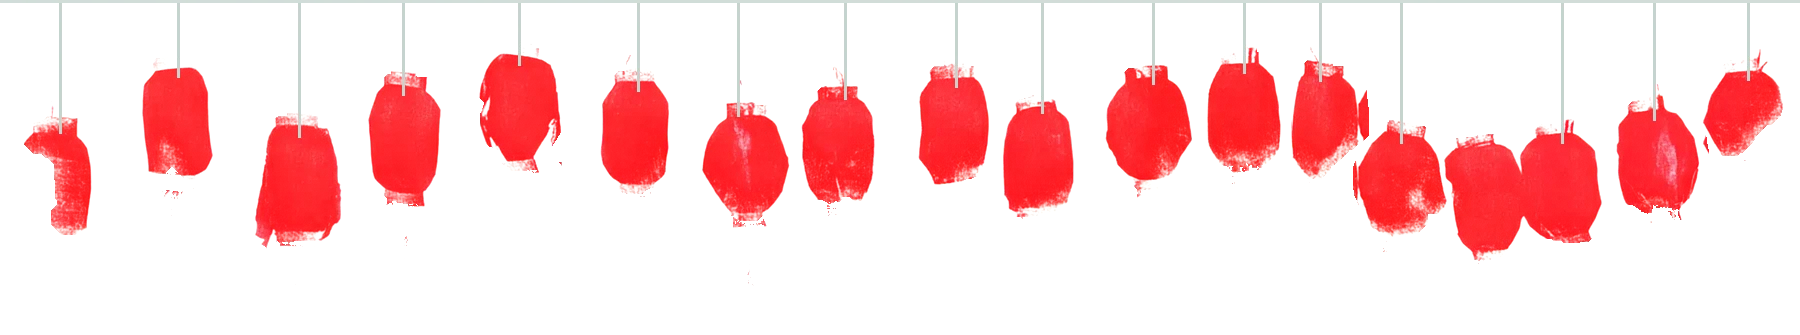
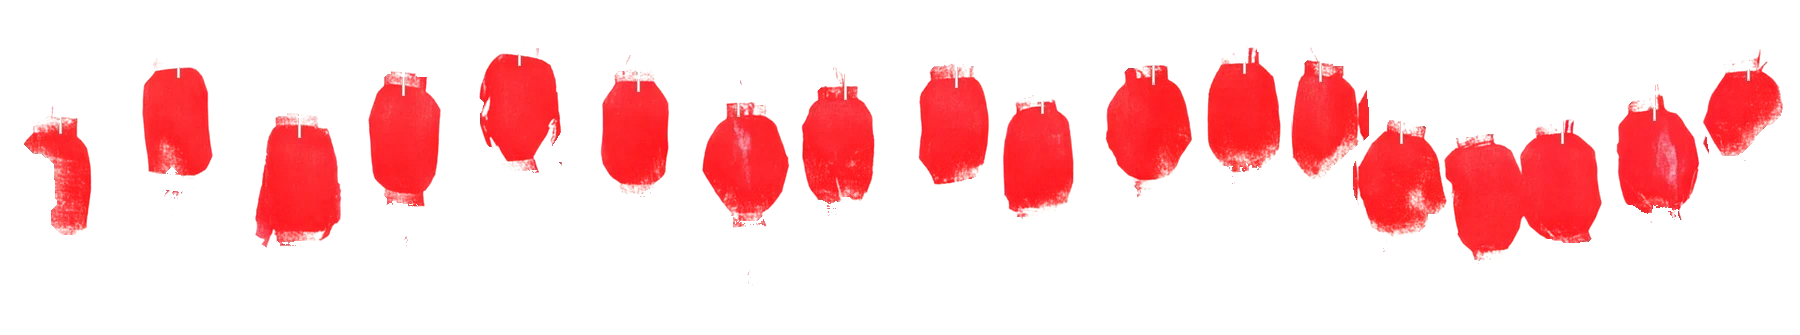
登录按钮去孔、总控计时重置、灯笼去线、勾魂令改版、鬼门开占位、Scavenger 不弹窗
Claude-Session: https://claude.ai/code/session_01WvX51nbkJSoqP7cjdirpLZ

Changed region(s): [[0.0, 0.0, 1.0, 0.0299]]

diff --git a/web/public/app.js b/web/public/app.js
@@ -28,7 +28,7 @@ function buzz(p){
   if(!IOS)return;const a=Array.isArray(p)?p:[p];let t=0;
   a.forEach((d,i)=>{if(i%2===0)setTimeout(iosTick,t);t+=d;});}
 function shakeEl(el,cls){if(!el)return;el.classList.remove(cls);void el.offsetWidth;el.classList.add(cls);}
-let ui={ddOpen:null,don:{},tab:null,room:'4S',gatePick:'',finalAsk:null,pick:'',res:{},settled:null,hookTeam:'',hookTarget:'',hookWhere:'',rd:{quest:'',title:''},pickOut:{},doneSel:{},revokeAsk:null,
+let ui={ddOpen:null,don:{},tab:null,room:'4S',gatePick:'',finalAsk:null,pick:'',res:{},settled:null,hookTeam:'',hookMode:'',hookAsk:null,hookTarget:'',hookWhere:'',rd:{quest:'',title:''},pickOut:{},doneSel:{},revokeAsk:null,
   coinTeam:'',coinAmt:'',buyer:'',mkTab:'buy',ncOpen:false,as:'ctrl',devOps:false,demoRows:null,devAck:new Set(),nc:{name:'',desc:'',price:'',stock:''},
   sub:{dealer:'info',npc:'task',market:'buy',ctrl:'status',player:'team'},
   pub:{kind:'鬼门开',reward:0,title:'',body:'',target:'all',team:'R',players:[],mins:10,to:'all',sqTeam:'',quest:'',gate:''},
@@ -249,9 +249,25 @@ function scavPanel(){
 }
 
 function hookLog(){
-  const out=[];
-  for(const l of S.log){const m=/^(\S+) 被(.)队(?:勾魂|通过「鬼门开」任务淘汰)/.exec(l.text);if(m)out.push({t:l.t,pid:m[1],by:(S.teams.find(t=>t.name===m[2]+'队')||{}).id});}
+  const out=[],byName=n=>(S.teams.find(t=>t.name===n+'队')||{}).id;
+  for(const l of S.log){let m;
+    if((m=/^(\S+) 被(.)队(?:勾魂|通过「鬼门开」任务淘汰)/.exec(l.text)))out.push({t:l.t,pid:m[1],by:byName(m[2]),kind:'淘汰'});
+    else if((m=/^(\S+) 因(?:勾魂令|鬼门开奖励)免费复活，回到(.)队/.exec(l.text)))out.push({t:l.t,pid:m[1],by:byName(m[2]),kind:'复活'});}
   return out;
+}
+// 勾魂令：取得勾魂令的队伍 = 左边「任务判定」里判定成功的队伍（选别的队要二次确认）；效果按本队人数建议（满员淘汰 / 缺人复活），也可强行改。
+function hookWon(tid){return S.notices.some(n=>n.kind==='任务'&&n.sub!=='side'&&Object.keys(n.done).some(c=>teamOf(c)===tid));}
+function hookSug(tid){return tid&&alive(tid).length<size(tid)?'revive':'kill';}
+function hookDlg(){
+  const k=ui.hookAsk;if(!k)return '';
+  const t=team(k.kind==='team'?k.v:ui.hookTeam);if(!t)return '';
+  let msg;
+  if(k.kind==='team')msg=t.name+'还没有在左边「任务判定」里判定成功，却要使用勾魂令。';
+  else{const n=alive(t.id).length,z=size(t.id),sug=hookSug(t.id);
+    msg=t.name+(n<z?'未满员（存活 '+n+'/'+z+'），建议「复活」一名队员':'已满员（存活 '+n+'/'+z+'），建议「淘汰」别队一名队员')+'，你要强行改成「'+(k.v==='kill'?'淘汰':'复活')+'」。';}
+  return '<div class="sheet"><div class="sheet-bg" data-a="hookno"></div><div class="sheet-card pn" role="dialog" aria-modal="true" aria-labelledby="hdt"><h3 id="hdt">'+(k.kind==='team'?'这支队伍没有判定成功':'与建议的效果不同')+'</h3>'
+    +'<div class="lot hot">'+esc(msg)+'</div><span class="small">你仍然可以继续。</span>'
+    +'<div class="btns two2"><button class="btn-main" data-a="hookok">仍然选择</button><button class="btn-line" data-a="hookno">取消</button></div></div></div>';
 }
 function viewNpc(){
   const tasks=S.notices.filter(n=>n.kind==='任务'&&n.sub!=='side').slice(0,6);
@@ -274,27 +290,35 @@ function viewNpc(){
     '<div class="li"><div class="grow"><span class="t">'+fmt(d.t)+(n.due&&d.t>n.due?' 超时':'')+'</span><span class="x">'+lab(cid)+' 完成「'+esc(n.title)+'」'+(d.pts?' <span class="mono">+'+d.pts+'</span>':'')+'</span></div>'
     +'<button class="btn-line" data-a="undone" data-n="'+n.id+'" data-t="'+cid+'">撤销</button></div>').join(''):'<div class="li small">暂无记录</div>')+'</div>';
   const task=gatePanel()+(cards||'<div class="pn"><span class="muted">还没有发布任务。总控在生死簿「发布」里发布。</span></div>')+records;
-  // 勾魂令: two dropdowns (who holds the token, who is named) and one button
+  // 勾魂令：队伍 → 效果（建议 + 可强行改）→ 队员
+  const ht=ui.hookTeam&&team(ui.hookTeam),sug=hookSug(ui.hookTeam),mode=ui.hookMode||sug,kill=mode==='kill';
   if(ui.hookTarget){const p=S.players.find(x=>x.id===ui.hookTarget);
-    if(!p||p.team===ui.hookTeam||p.st!=='alive'||protectedLeft(p)>0)ui.hookTarget='';}
+    if(!p||(kill?(p.team===ui.hookTeam||p.st!=='alive'||protectedLeft(p)>0):(p.team!==ui.hookTeam||p.st==='alive')))ui.hookTarget='';}
   const tgt=ui.hookTarget&&S.players.find(x=>x.id===ui.hookTarget);
-  const opts=S.teams.filter(t=>t.id!==ui.hookTeam).flatMap(t=>{
+  const won=S.teams.filter(t=>hookWon(t.id)),notWon=S.teams.filter(t=>!hookWon(t.id));
+  const tOpts=[...(won.length?[{group:'判定成功'},...won.map(t=>({v:t.id,label:t.name,c:TC[t.id][0]}))]:[]),
+    {group:'未判定成功（强行选择会提示）'},...notWon.map(t=>({v:t.id,label:t.name,c:TC[t.id][0]}))];
+  const stName={out:'原地待接',picked:'已被接到',market:'在鬼市'};
+  const opts=kill?S.teams.filter(t=>t.id!==ui.hookTeam).flatMap(t=>{
     return [{group:t.name},...S.players.filter(p=>p.team===t.id).map(p=>{const l=protectedLeft(p),gone=p.st!=='alive';
-      return {v:p.id,label:p.id,c:TC[t.id][0],off:gone||l>0,note:gone?'已淘汰':l>0?'保护 '+Math.ceil(l/60)+' 分':''};})];});
+      return {v:p.id,label:p.id,c:TC[t.id][0],off:gone||l>0,note:gone?'已淘汰':l>0?'保护 '+Math.ceil(l/60)+' 分':''};})];})
+    :S.players.filter(p=>p.team===ui.hookTeam&&p.st!=='alive').map(p=>({v:p.id,label:p.id,c:TC[ui.hookTeam][0],note:stName[p.st]||''}));
   const ready=ui.hookTeam&&tgt;
-  const counts={};const hl=hookLog();hl.forEach(h=>{if(h.by)counts[h.by]=(counts[h.by]||0)+1;});
-  const hook='<div class="pn hook"><div class="two">'
-    +'<div class="fld"><span>取得勾魂令的队伍</span>'+dd('hookTeam',ui.hookTeam&&team(ui.hookTeam).name,'选择队伍',ui.hookTeam&&TC[ui.hookTeam][0],S.teams.map(t=>({v:t.id,label:t.name,c:TC[t.id][0]})))+'</div>'
-    +'<div class="fld"><span>被点名的队员</span>'+dd('hookTarget',tgt&&tgt.id,'选择别队队员',tgt&&TC[tgt.team][0],opts)+'</div></div>'
-    +'<label class="fld"><span>位置（在房间内可不填）</span><input class="in" id="hw" data-m="hookWhere" value="'+esc(ui.hookWhere)+'" placeholder="例如：二楼走廊"></label>'
-    +'<button class="btn-main red" data-a="hook"'+(ready?'':' disabled')+' style="min-height:56px;display:flex;align-items:center;justify-content:center;gap:12px;font-size:18px">'
+  const modeUi=ht?'<div class="fld"><span>效果</span><div class="seg2">'+[['kill','淘汰别队一名队员'],['revive','复活本队一名队员']].map(([k,l])=>'<button class="sbtn'+(mode===k?' on':'')+'" data-a="hookmode" data-v="'+k+'" aria-pressed="'+(mode===k)+'">'+l+(sug===k?'（建议）':'')+'</button>').join('')+'</div>'
+      +'<span class="small">'+esc(ht.name)+'存活 '+alive(ht.id).length+'/'+size(ht.id)+(sug==='kill'?'，已满员 → 建议淘汰':'，未满员 → 建议复活')+(ui.hookMode&&ui.hookMode!==sug?'　<b style="color:var(--red)">（已强行改成'+(ui.hookMode==='kill'?'淘汰':'复活')+'）</b>':'')+'</span></div>'
+    :'<span class="small">选好队伍后，会按本队存活人数建议效果（满员淘汰，未满员复活）。</span>';
+  const hl=hookLog();
+  const hook='<div class="pn hook"><div class="fld"><span>取得勾魂令的队伍</span>'+dd('hookTeam',ht&&ht.name,'选择队伍',ht&&TC[ui.hookTeam][0],tOpts)+'</div>'
+    +modeUi
+    +'<div class="fld"><span>'+(kill?'被点名的队员':'要复活的队友')+'</span>'+dd('hookTarget',tgt&&tgt.id,kill?'选择别队队员':'选择本队未存活的队友',tgt&&TC[tgt.team][0],opts)+'</div>'
+    +(kill?'<label class="fld"><span>位置（在房间内可不填）</span><input class="in" id="hw" data-m="hookWhere" value="'+esc(ui.hookWhere)+'" placeholder="例如：二楼走廊"></label>':'')
+    +'<button class="btn-main'+(kill?' red':'')+'" data-a="hook"'+(ready?'':' disabled')+' style="min-height:56px;display:flex;align-items:center;justify-content:center;gap:12px;font-size:18px">'
     +'<span style="width:34px;height:34px;border:2px solid currentColor;border-radius:6px;display:grid;place-items:center;font-family:var(--brush);font-size:24px;line-height:1;transform:rotate(-8deg);font-weight:400">勾</span>'
-    +(ready?team(ui.hookTeam).name+' 勾魂 '+tgt.id:'先选队伍和队员')+'</button></div>'
-    +'<div class="pn"><div class="shrow"><h3>已勾魂次数</h3><span class="small">本局共 <span class="mono" style="font-weight:800;font-size:22px;color:var(--ink)">'+S.gate+'</span> 次</span></div>'
-    +'<div class="hgrid">'+S.teams.map(t=>'<div class="hc">'+tsq(t.id,26)+'<span>'+t.name+'</span><b>'+(counts[t.id]||0)+'</b></div>').join('')+'</div>'
-    +hl.slice(0,3).map(h=>'<div class="hrow"><span class="minis">勾</span><span class="t">'+fmt(h.t)+'</span><span>'+(h.by?team(h.by).name+' 勾魂 ':'勾魂 ')+h.pid+'</span></div>').join('')+'</div>';
+    +(ready?ht.name+(kill?' 勾魂 ':' 复活 ')+tgt.id:'先选队伍和队员')+'</button></div>'
+    +'<div class="pn"><div class="shrow"><h3>勾魂记录</h3><span class="small">'+(hl.length?'共 '+hl.length+' 条':'暂无')+'</span></div>'
+    +hl.slice(0,10).map(h=>'<div class="hrow"><span class="minis">勾</span><span class="t">'+fmt(h.t)+'</span><span class="typ">'+h.kind+'</span><span>'+(h.by?team(h.by).name+' ':'')+(h.kind==='复活'?'复活 ':'勾魂 ')+h.pid+'</span></div>').join('')+'</div>';
   return '<div class="page tabbed"><div class="cols3">'+sec('npc','task','<h2 class="sh">任务判定</h2>'+task)+sec('npc','scav','<h2 class="sh">Scavenger Hunt 兑换</h2>'+scavPanel())+sec('npc','hook','<h2 class="sh">勾魂令</h2>'+hook)+'</div>'
-    +sub('npc',[['task','任务判定'],['scav','Scavenger'],['hook','勾魂令']])+'</div>';
+    +sub('npc',[['task','任务判定'],['scav','Scavenger'],['hook','勾魂令']])+hookDlg()+'</div>';
 }
 
 // ---------- 鬼市 ----------
@@ -478,7 +502,7 @@ function pubPanel(){
     +'<div class="fgrid"><label class="fld"><span>限时（分钟）</span><input class="in mono" id="pm" data-m="pub.mins" value="'+esc(f.mins)+'" inputmode="numeric"></label>'
     +(K==='custom'?'<label class="fld"><span>完成奖励（冥币，可为 0）</span><input class="in mono" id="prw" data-m="pub.reward" value="'+esc(f.reward)+'" inputmode="numeric"></label>':'')
     +'</div>'
-    +((side&&f.quest!=='custom')||(gate&&f.gate!=='custom')?'':'<label class="fld"><span>标题</span><input class="in" id="pti" data-m="pub.title" value="'+esc(f.title)+'" placeholder="例如：鬼门开：还原鬼片海报"></label>'
+    +((side&&f.quest!=='custom')||(gate&&f.gate!=='custom')?'':'<label class="fld"><span>标题</span><input class="in" id="pti" data-m="pub.title" value="'+esc(f.title)+'" placeholder="例如：鬼门开 占位"></label>'
     +'<label class="fld"><span>内容</span><textarea class="in" id="pb" data-m="pub.body" rows="3" placeholder="玩家手机上看到的说明：任务要求、集合地点…">'+esc(f.body)+'</textarea></label>')
     +'<button class="btn-main" data-a="publish">发布'+(K==='custom'?'自定义任务':gate?'鬼门开':'')+'到'+esc(toName)+(f.target==='staff'?'':f.target==='everyone'?'的手机':'玩家手机')+'</button></div>';
   const list=S.notices.filter(n=>n.kind!=='通知'&&n.sub!=='side').slice(0,10).map(n=>{
@@ -504,9 +528,11 @@ function adminPanel(){
       +(A.ask==='snap:'+s.key?'<span class="btns"><button class="btn-line fillred" data-a="adm-restore" data-v="'+s.key+'">确认恢复</button><button class="btn-line" data-a="adm-cancel">取消</button></span>'
         :'<button class="btn-line" data-a="adm-ask" data-v="snap:'+s.key+'">恢复到这里</button>')+'</div>').join('')+'</div>':'<span class="small">还没有备份。每 10 次操作自动备份一次。</span>'):'';
   const left='<div class="stack"><div class="pn"><span class="lbl" style="font-size:13px">游戏计时</span><div class="timer"><span class="big'+(run?'':' paused')+'" id="tclk">'+fmt(S.t)+'</span>'
-    +'<button class="btn-line '+(run?'':'fill')+'" data-a="clockctl" style="min-height:52px;padding:0 24px;font-size:17px;font-weight:900">'+(run?'暂停':'开始')+'</button></div>'
+    +'<button class="btn-line '+(run?'':'fill')+'" data-a="clockctl" style="min-height:52px;padding:0 24px;font-size:17px;font-weight:900">'+(run?'暂停':'开始')+'</button>'
+    +(A.ask==='clockreset'?'<button class="btn-line fillred" data-a="clockreset" style="min-height:52px;padding:0 18px;font-size:16px;font-weight:900">确认重置为 0:00</button><button class="btn-line" data-a="adm-cancel" style="min-height:52px">取消</button>'
+      :'<button class="btn-line" data-a="adm-ask" data-v="clockreset" style="min-height:52px;padding:0 18px;font-size:16px;font-weight:900">重置</button>')+'</div>'
     +'<span class="small" style="font-weight:700;color:'+(run?'var(--accent)':'var(--sub)')+'">'+(run?'● 计时中':'❚❚ 已暂停')+'</span></div>'
-    +'<div class="pn"><div class="shrow"><h3>总时长</h3><span class="small">大屏显示剩余时间；倒数到 0 不会自动做任何事</span></div><span class="small">当前 <b class="mono" style="color:var(--ink)">'+Math.round((S.dur||7200)/60)+'</b> 分钟</span>'
+    +'<div class="pn"><div class="shrow"><h3>总时长</h3></div><span class="small">当前 <b class="mono" style="color:var(--ink)">'+Math.round((S.dur||7200)/60)+'</b> 分钟</span>'
     +'<div class="btns"><input class="in mono" id="durm" data-m="durMin" value="'+esc(A.dur)+'" inputmode="numeric" placeholder="分钟，如 120" style="max-width:150px"><button class="btn-line acc" data-a="setdur">设置</button></div></div>'
     +'<div class="pn"><h3>开局</h3><span class="small">8 队随机分到 8 个房间（直接进入游戏中）。只有还没有队伍进过房间时才能用。</span><div class="btns"><button class="btn-line acc" data-a="assign">开局随机分房</button></div></div>'
     +'<div class="pn"><div class="shrow"><h3>PIN</h3><span class="small">按数量补齐工作人员 PIN</span></div>'
@@ -586,7 +612,7 @@ function viewPlayer(){
     +'<div class="skrow"><span class="cap">本队技能卡</span>'+(t.skills.length?'<div class="skills">'+t.skills.map(k=>'<button class="sk'+(ui.skillOpen===k.sid?' on':'')+'" data-a="skill" data-v="'+k.sid+'" aria-expanded="'+(ui.skillOpen===k.sid)+'">'+esc(k.name)+'</button>').join('')+'</div>':'<span class="muted small">暂无。鬼市里的人可用个人冥币购买。</span>')+'</div>'
     +((sk=>sk?'<div class="skd"><b>'+esc(sk.name)+'</b>'+(sk.desc?'<span class="d">'+esc(sk.desc)+'</span>':'')+'<span class="small">'+esc(sk.by)+' 于 '+fmt(sk.t)+' 在鬼市买入</span><span class="small">使用时找工作人员出示这一页。</span></div>':'')(t.skills.find(k=>k.sid===ui.skillOpen)));
   // 通知与任务
-  const mine=S.notices.filter(n=>matches(n,me)),unread=mine.filter(n=>!n.acks[me.id]).length;
+  const mine=S.notices.filter(n=>n.sub!=='side'&&matches(n,me)),unread=mine.filter(n=>!n.acks[me.id]).length;
   const nmeta=n=>{const key=indiv(n)?me.id:me.team,d=n.done[key],w=Object.keys(n.done)[0],lost=n.kind==='任务'&&!d&&isFirst(n)&&!!w;return{d,w,lost,live:n.kind==='任务'&&!d&&!lost};};
   const noteHtml=n=>{const acked=!!n.acks[me.id],[kl,kc]=kindOf(n),{d,w,lost}=nmeta(n);
     let ns='',nc='';
@@ -656,7 +682,7 @@ function modalHtml(){
       +'<button data-a="sack" data-n="'+n.id+'" data-modal="1">知道了</button></div></div>';}
   if(!ME||ME.role!=='player'||!S)return '';
   const me=S.players.find(p=>p.id===ME.pid);
-  const n=S.notices.find(x=>matches(x,me)&&!x.acks[me.id]&&!(DEVME&&ui.devAck.has(x.id+':'+me.id)));if(!n)return '';
+  const n=S.notices.find(x=>x.sub!=='side'&&matches(x,me)&&!x.acks[me.id]&&!(DEVME&&ui.devAck.has(x.id+':'+me.id)));if(!n)return '';
   const [kl,kc]=kindOf(n),r=n.due?n.due-S.t:0;
   return '<div class="ovl" data-k="'+(n.tone==='out'?'out':'')+'"><div class="dlg" data-n="'+n.id+'" data-k="'+(n.tone==='out'?'out':'')+'" role="dialog" aria-modal="true" aria-labelledby="dt"><div class="new"><i></i>新通知</div>'
     +'<div class="bd"><span class="k '+(kc==='alert'?'alert':'')+'">'+kl+'</span>'+(modeOf(n)?'<span>'+modeOf(n)+'</span>':'')+'</div>'
@@ -877,6 +903,7 @@ function localAdmin(a){
       if(a.op==='start'&&!CLOCK.running){CLOCK={running:true,base:CLOCK.base,at:Date.now()};FULL.t=CLOCK.base;R.log('计时开始');}
       else if(a.op==='pause'&&CLOCK.running){const n=nowT();CLOCK={running:false,base:n,at:Date.now()};FULL.t=n;R.log('计时暂停');}
       else if(a.op==='set'){CLOCK={running:CLOCK.running,base:Math.max(0,Math.round(+a.sec)||0),at:Date.now()};}
+      else if(a.op==='reset'){CLOCK={running:false,base:0,at:Date.now()};FULL.t=0;R.log('计时重置为 0:00');}
       else return no('计时状态没有变化');
       return ok(CLOCK.running?'计时进行中':'计时已暂停');
     case 'admin.reset':lSnap('重置前');FULL=R.newGame(!!a.demo);CLOCK={running:false,base:a.demo?FULL.t:0,at:Date.now()};return ok(a.demo?'已载入演示数据（计时暂停）':'已重置为空白游戏（计时暂停）');
@@ -925,7 +952,8 @@ document.addEventListener('click',e=>{
   if(a==='tab'){ui.tab=v;say(null);}
   else if(a==='sub'){ui.sub[b.dataset.p]=v;scrollTo({top:0});$('#view').scrollTop=0;}
   else if(a==='dd'){ui.ddOpen=ui.ddOpen===v?null:v;}
-  else if(a==='pick'){ui.ddOpen=null;const k=b.dataset.k,next=b.dataset.t&&getp(k)===v?'':v;setp(k,next);
+  else if(a==='pick'){ui.ddOpen=null;const k=b.dataset.k,next=b.dataset.t&&getp(k)===v?'':v;if(k==='hookTeam'&&next&&next!==ui.hookTeam&&!hookWon(next))ui.hookAsk={kind:'team',v:next};
+    else{setp(k,next);if(k==='hookTeam'){ui.hookMode='';ui.hookTarget='';}}
     if(k==='pub.quest'){const q=QUESTS.find(x=>x.id===next);if(q)ui.pub.reward=q.reward;}
     if(k==='pub.to'){const t=next||'all';if(t.startsWith('team:')){ui.pub.target='team';ui.pub.team=t.slice(5);}else ui.pub.target=t;}}
   else if(a==='mktab'){ui.mkTab=v;}
@@ -943,6 +971,7 @@ document.addEventListener('click',e=>{
   else if(a==='demo-save'){const r=ui.demoRows[+b.dataset.i];send({type:'dev.setdemo',pin:r.pin,old:r.old,mode:r.mode,write:r.write},m=>{DEVME.demoCfg=m.data;SESSION.me=DEVME;store.set(SESSION);ui.demoRows=null;});}
   else if(a==='demo-del'){const i=+b.dataset.i,r=ui.demoRows[i];if(!r.old)ui.demoRows.splice(i,1);else send({type:'dev.deldemo',pin:r.old},m=>{DEVME.demoCfg=m.data;SESSION.me=DEVME;store.set(SESSION);ui.demoRows=null;});}
   else if(a==='devops'){if(DEVME.demo)return;ui.devOps=!ui.devOps;say({ok:true,msg:ui.devOps?'开发者模式：可操作（以当前视角的身份）':'开发者模式：只读'});}
+  else if(a==='clockreset'){A.ask=null;send({type:'admin.clock',op:'reset'});}
   else if(a==='clockctl'){send({type:'admin.clock',op:CLOCK&&CLOCK.running?'pause':'start'});}
   else if(a==='room'){ui.room=v;ui.pick='';ui.res={};ui.pickOut={};ui.settled=null;}
   else if(a==='res'){ui.res[b.dataset.t]=ui.res[b.dataset.t]===v?undefined:v;delete ui.pickOut[b.dataset.t];}
@@ -955,7 +984,10 @@ document.addEventListener('click',e=>{
   else if(a==='rsvclose'){ui.rsvInfo=null;}
   else if(a==='cancelrsv'){send({type:'cancelrsv'});}
   else if(a==='finish'){const rid=ui.room;send({type:'finish',rid,results:ui.res,picks:ui.pickOut},m=>{ui.res={};ui.pickOut={};ui.settled={rid,msg:m.msg};});}
-  else if(a==='hook'){send({type:'hook',actor:ui.hookTeam,pid:ui.hookTarget,where:ui.hookWhere},()=>{ui.hookTarget='';ui.hookWhere='';});}
+  else if(a==='hook'){send({type:'hook',actor:ui.hookTeam,pid:ui.hookTarget,where:ui.hookWhere,mode:ui.hookMode||hookSug(ui.hookTeam)},()=>{ui.hookTarget='';ui.hookWhere='';});}
+  else if(a==='hookmode'){const cur=ui.hookMode||hookSug(ui.hookTeam);if(v!==cur){if(v===hookSug(ui.hookTeam)){ui.hookMode='';ui.hookTarget='';}else ui.hookAsk={kind:'mode',v};}}
+  else if(a==='hookok'){const k=ui.hookAsk;ui.hookAsk=null;if(k){if(k.kind==='team'){ui.hookTeam=k.v;ui.hookMode='';ui.hookTarget='';}else{ui.hookMode=k.v;ui.hookTarget='';}}}
+  else if(a==='hookno'){ui.hookAsk=null;}
   else if(a==='publish'){const sq=ui.pub.kind==='sidequest';send({type:'publish',f:{...ui.pub,team:sq?ui.pub.sqTeam:ui.pub.team,mins:+ui.pub.mins||0,reward:+ui.pub.reward||0}},()=>{ui.pub.title='';ui.pub.body='';if(sq){ui.pub.quest='';ui.pub.sqTeam='';}ui.pub.gate='';});}
   else if(a==='scavredeem'){const r=ui.rd;send({type:'scavredeem',tid:b.dataset.t,qid:r.quest,title:r.title});}
   else if(a==='checkin'){send({type:'checkin',pid:b.dataset.p,party:checkinParty()});}

diff --git a/web/public/style.css b/web/public/style.css
@@ -1250,10 +1250,7 @@ body .lg::before,body .lg::after{content:none}
 .lg .okv{border-radius:var(--r-m)}
 .boxes .bx{border-color:#000;border-radius:var(--r-s);box-shadow:inset 0 0 0 calc(var(--stroke) - 1px) #000,inset 3px 3px 0 calc(var(--stroke) - 1px) rgba(0,0,0,.6)}
 .boxes:focus-within .bx.act{border-color:#5fe0b4;box-shadow:inset 0 0 0 calc(var(--stroke) - 1px) #5fe0b4,0 0 14px rgba(95,224,180,.35)}
-.lg .go{position:relative;border-radius:var(--r-m);box-shadow:inset 0 0 0 var(--stroke) #000,var(--sh),0 0 22px rgba(95,224,180,.25);transition:transform 70ms ease-out,box-shadow 70ms ease-out;
-  background-image:radial-gradient(circle 8px at 18px 50%,transparent 5.5px,#000 6px,#000 7.5px,transparent 8px);background-origin:border-box;background-repeat:no-repeat;
-  -webkit-mask:radial-gradient(circle 6px at 42px 50%,transparent 5.5px,#000 6px) -24px -24px/calc(100% + 48px) calc(100% + 48px) no-repeat border-box;
-  mask:radial-gradient(circle 6px at 42px 50%,transparent 5.5px,#000 6px) -24px -24px/calc(100% + 48px) calc(100% + 48px) no-repeat border-box;-webkit-mask-clip:no-clip;mask-clip:no-clip}
+.lg .go{position:relative;border-radius:var(--r-m);box-shadow:inset 0 0 0 var(--stroke) #000,var(--sh),0 0 22px rgba(95,224,180,.25);transition:transform 70ms ease-out,box-shadow 70ms ease-out}
 .lg .go:active:not(:disabled){transform:translate(var(--press),var(--press));box-shadow:inset 0 0 0 var(--stroke) #000}
 .lg .go:disabled{box-shadow:none;outline:var(--stroke) dashed #2e474e;outline-offset:calc(-1 * var(--stroke))}
 /* 深色大屏：去掉舞台上的噪点纸纹层 */

diff --git a/worker/src/index.js b/worker/src/index.js
@@ -202,6 +202,7 @@ export class Game extends DurableObject {
         if (a.op === 'start' && !c.running) { c.running = true; c.at = Date.now(); this.S.t = c.base; R.use(this.S); R.log('计时开始'); }
         else if (a.op === 'pause' && c.running) { c.base = this.now(); c.running = false; c.at = Date.now(); this.S.t = c.base; R.use(this.S); R.log('计时暂停'); }
         else if (a.op === 'set') { c.base = Math.max(0, Math.round(+a.sec) || 0); c.at = Date.now(); }
+        else if (a.op === 'reset') { c.base = 0; c.running = false; c.at = Date.now(); this.S.t = 0; R.use(this.S); R.log('计时重置为 0:00'); }
         else return R.no('计时状态没有变化');
         return ok(c.running ? '计时进行中' : '计时已暂停');
       }

diff --git a/CLAUDE.md b/CLAUDE.md
@@ -245,3 +245,13 @@ npm run dev:pages                             # 正式部署的路径（Pages+Wo
 
 ## 7.13 发布公告新增对象（2026-10-05）
 - 公告的「发给谁」多了「工作人员」（`staff`）和「所有人（玩家 + 工作人员）」（`everyone`），只有 kind=公告 可选（任务/鬼门开不行）。工作人员（含总控、大屏）收到全屏通知，已读只记在本机 sessionStorage（`staffAcked`），发布列表不统计工作人员已读数。`R.staffSees(n)`。
+
+## 7.14 本轮调整（2026-10-05 晚）
+
+- **登录页**进入按钮去掉左侧镂空钉孔（只改了 `style.css` 里 `.lg .go`，其余设计稿内容不动；`.btn-main` 的钉孔仍在）。
+- **总控工具**：「总时长」旁那句提示删掉；游戏计时加「重置」（先点重置 → 再点「确认重置为 0:00」；服务器 `admin.clock` 新增 `op:'reset'`：回到 0:00 并暂停，写日志；本地演示模式 `localAdmin` 同步支持）。
+- **鬼市灯笼**（`lantern-dark/light.webp`）：吊线和顶部横线去掉，灯笼位置不变（并清掉了残留线头）。
+- **勾魂令**（判官页，`hook`）：①取得勾魂令的队伍下拉分「判定成功」（左边任务判定里完成过非 Scavenger 任务的队伍，`hookWon`）和「未判定成功」两组，选后者会弹「这支队伍没有判定成功」，可「仍然选择」；②新增**效果**：淘汰别队一名队员 / 复活本队一名未存活队员（`mode:'kill'|'revive'`，复活走 `freeRevive`，与鬼门开奖励共用，复活后进保护期），按本队存活人数自动建议（满员 → 淘汰，缺人 → 复活），改成非建议效果时弹确认并显示「已强行改成…」；③**勾魂次数去掉**（`S.gate` 删除，不再显示计数）；④保留「勾魂记录」，每条带类别（淘汰 / 复活）。
+- **鬼门开**：演示数据和题库 `GATES` 都是占位文字（「鬼门开 占位」「（占位文字，正式内容待定）」），具体玩法待定。
+- **Scavenger Hunt**：玩家端不再弹全屏通知、「当前任务与通知」列表也不显示 sidequest 通知（`n.sub!=='side'` 过滤），只保留任务页顶上那条「Scavenger 已兑换/上限 + 可兑换时间」计数行；判官 / 总控的兑换流程不变。
+- 测试：`rules.test.mjs` 增加勾魂令淘汰/复活用例；`sync.test.mjs` 增加计时重置用例；rules / sync / restart 全过。
